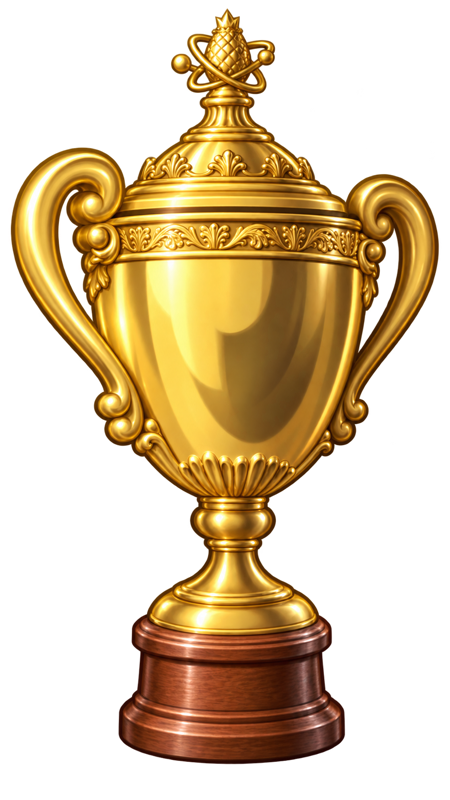
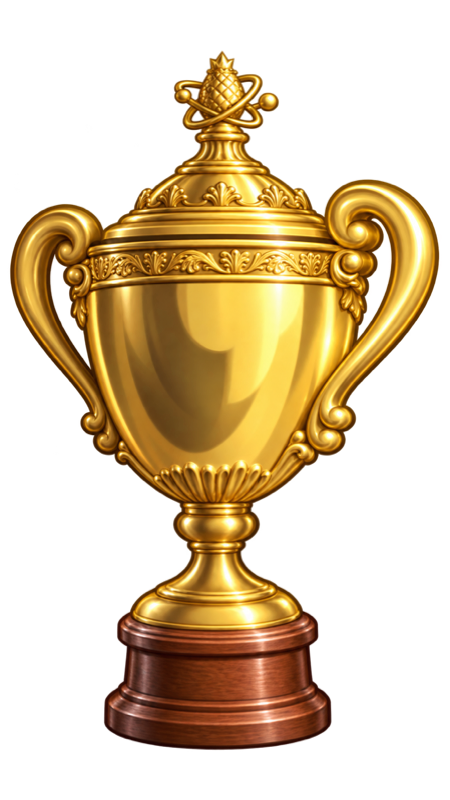
Add 2025 chess.com match archive

diff --git a/src/features/profile/profileTrophies.tsx b/src/features/profile/profileTrophies.tsx
@@ -25,9 +25,9 @@ export type ProfileTrophy = {
 
 export const trophyCaseSortStorageKey = "atomic-puzzles:profile-trophy-case-sort";
 const rankingTrophyAssets = {
-  top1: appAssetPath("/images/lichess-trophies/gold-cup-2.png"),
-  secondPlace: appAssetPath("/images/lichess-trophies/red-cup-2.png"),
-  top10: appAssetPath("/images/lichess-trophies/silver-cup-2.png"),
+  top1: appAssetPath("/images/atomic-rank-trophies/top-1.png"),
+  secondPlace: appAssetPath("/images/atomic-rank-trophies/top-2.png"),
+  top10: appAssetPath("/images/atomic-rank-trophies/top-10.png"),
 };
 type TournamentProfileTrophyRow = {
   award_key?: string | null;
@@ -170,17 +170,6 @@ export const sortProfileTrophies = (
     return dateDifference !== 0 ? dateDifference : left.title.localeCompare(right.title);
   });
 
-const sortChampionshipTrophiesForHeader = (trophies: ProfileTrophy[]): ProfileTrophy[] =>
-  [...trophies].sort((left, right) => {
-    const prestigeDifference = right.prestige - left.prestige;
-    if (prestigeDifference !== 0) return prestigeDifference;
-
-    const dateDifference =
-      new Date(`${right.dateValue}T00:00:00Z`).getTime() -
-      new Date(`${left.dateValue}T00:00:00Z`).getTime();
-    return dateDifference !== 0 ? dateDifference : left.title.localeCompare(right.title);
-  });
-
 export const getProfileHeaderTrophies = ({
   championshipTrophies,
   rankingTrophies,
@@ -193,12 +182,8 @@ export const getProfileHeaderTrophies = ({
   const currentRankingTrophies = rankingTrophies.filter(
     (trophy) => trophy.dateLabel === currentMonthKey,
   );
-  const orderedChampionshipTrophies = sortChampionshipTrophiesForHeader(championshipTrophies);
 
-  return sortProfileTrophies(
-    [...orderedChampionshipTrophies, ...currentRankingTrophies],
-    "prestige",
-  );
+  return sortProfileTrophies([...championshipTrophies, ...currentRankingTrophies], "date");
 };
 
 const isExternalHref = (href: string): boolean => /^https?:\/\//i.test(String(href || "").trim());

diff --git a/src/features/profile/profileTrophies.test.tsx b/src/features/profile/profileTrophies.test.tsx
@@ -118,7 +118,7 @@ describe("profile header trophies", () => {
     ]);
   });
 
-  it("prioritizes a higher-prestige championship over a more recent one", () => {
+  it("orders championships from oldest to newest regardless of prestige", () => {
     const visible = getProfileHeaderTrophies({
       championshipTrophies: [
         trophy("awc-2024", 1000, "Dec 2024", "2024-12-01"),
@@ -129,6 +129,25 @@ describe("profile header trophies", () => {
     });
 
     expect(visible.map(({ key }) => key)).toEqual(["awc-2024", "aoc-2026", "hyper-rank"]);
+  });
+
+  it("places ACL Season 1 before Season 2 and later 2026 trophies", () => {
+    const visible = getProfileHeaderTrophies({
+      championshipTrophies: [
+        trophy("atomic-hyper-2026", 970, "Aug 2026", "2026-08-19"),
+        trophy("acl-s2", 960, "Mar 2026", "2026-03-29"),
+        trophy("acl-s1", 960, "Aug 2025", "2025-08-30"),
+      ],
+      rankingTrophies: [trophy("bullet-rank", 900, "Sep 2026", "2026-09-01")],
+      currentMonthKey: "Sep 2026",
+    });
+
+    expect(visible.map(({ key }) => key)).toEqual([
+      "acl-s1",
+      "acl-s2",
+      "atomic-hyper-2026",
+      "bullet-rank",
+    ]);
   });
 
   it("uses additional championships when no current ranking trophies are available", () => {

diff --git a/src/lib/matches/tournaments.ts b/src/lib/matches/tournaments.ts
@@ -143,6 +143,7 @@ const tournamentStartDateFallbacks: Readonly<Record<string, string>> = {
   aoc2026: "2026-07-02",
   ahc2026: "2026-07-10",
   ccac2026: "2026-03-04",
+  ccac2025: "2025-03-27",
   awc2025: "2025-09-03",
   awc2024: "2024-09-11",
   awc2023: "2023-09-11",
@@ -163,6 +164,7 @@ const tournamentEndDateFallbacks: Readonly<Record<string, string>> = {
   aoc2026: "2026-07-31",
   ahc2026: "2026-08-19",
   ccac2026: "2026-03-06",
+  ccac2025: "2025-03-28",
   awc2025: "2025-12-20",
   awc2024: "2024-12-21",
   awc2023: "2023-12-10",
